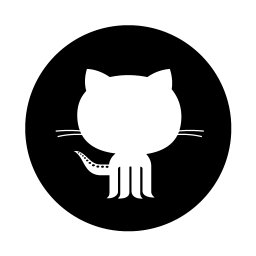
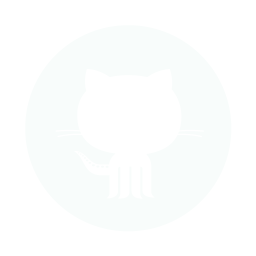
more RWD fixes

diff --git a/index.html b/index.html
@@ -15,20 +15,16 @@
         <a class="nav-links" href="#projects">PROJECTS</a>
         <a class="nav-links" href="#contact">CONTACT</a>
       </nav>
-      <div class="social-nav">
-        <a target="_blank" href="https://twitter.com/AdamJahr"><img id="twitter-icon" src="./images/twitter.png" alt="twitter icon"></a>
-        <a target="_blank" href="https://github.com/atomjar"><img id="github-icon" src="./images/github-icon.png" alt="github icon"></a>
-      </div>
     </header>
 
     <section id="top-section">
       <h1 id="top-heading">ADAM JAHR</h1>
-      <h3><em>React Developer <strong id="slash">//</strong> Digital Artist</em></h3>
+      <h3><em>Developer <strong id="slash">//</strong> Instructor <strong id="slash">//</strong> Artist</em></h3>
     </section>
 
     <section id="sect1">
       <img id="headshot" src="./images/headshot.png" alt="Adam Jahr">
-      <p id="bio-text">I am a web developer who loves building in React.<br>
+      <p id="bio-text">I am a developer who loves building in React.<br>
         I teach fresh minds how to code.<br>
         I'm in my element fusing sleek UI with smooth UX.<br>
         I produce music + audiovisual art.</p>
@@ -112,6 +108,10 @@
         </a>
       </div>
       <a class="contact-info" href="727-560-3443">727-560-3443</a>
+      <div class="social-nav">
+        <a target="_blank" href="https://twitter.com/AdamJahr"><img id="twitter-icon" src="./images/twitter.png" alt="twitter icon"></a>
+        <a target="_blank" href="https://github.com/atomjar"><img id="github-icon" src="./images/github-icon.png" alt="github icon"></a>
+      </div>
     </section>
   </body>
 </html>

diff --git a/style.css b/style.css
@@ -36,21 +36,20 @@ a:hover {
 }
 
 .social-nav {
-  margin-top: -25px;
+  margin-top: 15px;
+  display: flex;
+  width: 100%;
+  justify-content: center;
 }
 
 #twitter-icon {
   width: 29px;
   height: 29px;
-  float: right;
-  margin-right: 40px;
 }
 
 #github-icon {
   width: 31px;
   height: 31px;
-  float: right;
-  margin-right: 10px;
 }
 
 #top-section {
@@ -265,7 +264,7 @@ hr {
 
 #email-icon {
   display: block;
-  margin: 5px auto;
+  margin: 10px auto;
   width: 50px;
 }
 
@@ -274,35 +273,10 @@ hr {
 
 @media screen and (max-width: 647px) {
 
-  /*header {
-    height: 75px;
-  }*/
-
   .nav-links {
     font-size: 13px;
   }
 
-  .social-nav {
-    margin-top: -20px;
-  }
-
-  #twitter-icon {
-    /*width: 25px;
-    height: 25px;
-    float: right;
-    margin-right: 20px;
-    padding-top: 20px;*/
-    opacity: 0;
-  }
-
-  #github-icon {
-    /*width: 27px;
-    height: 27px;
-    float: right;
-    margin-right: 7px;
-    padding-top: 20px;*/
-    opacity: 0;
-  }
 
   #top-section {
     background: url("./images/black.jpg") no-repeat center center scroll;
